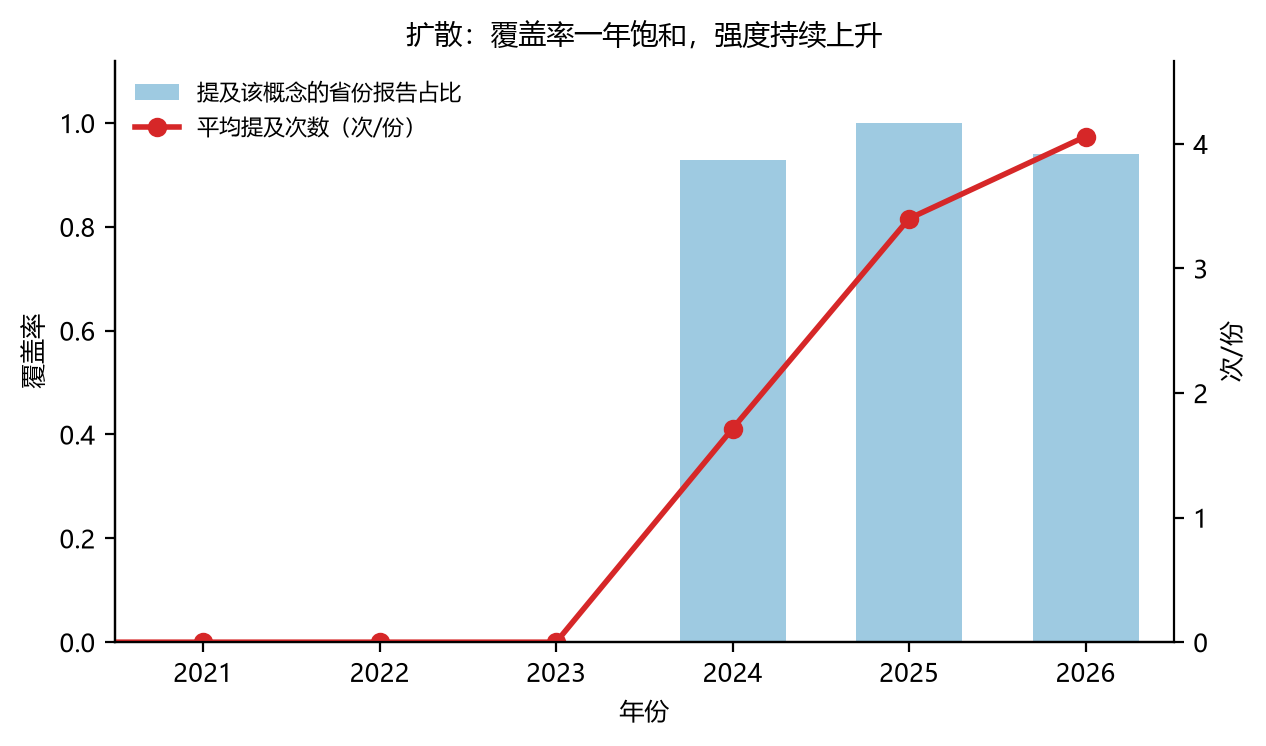
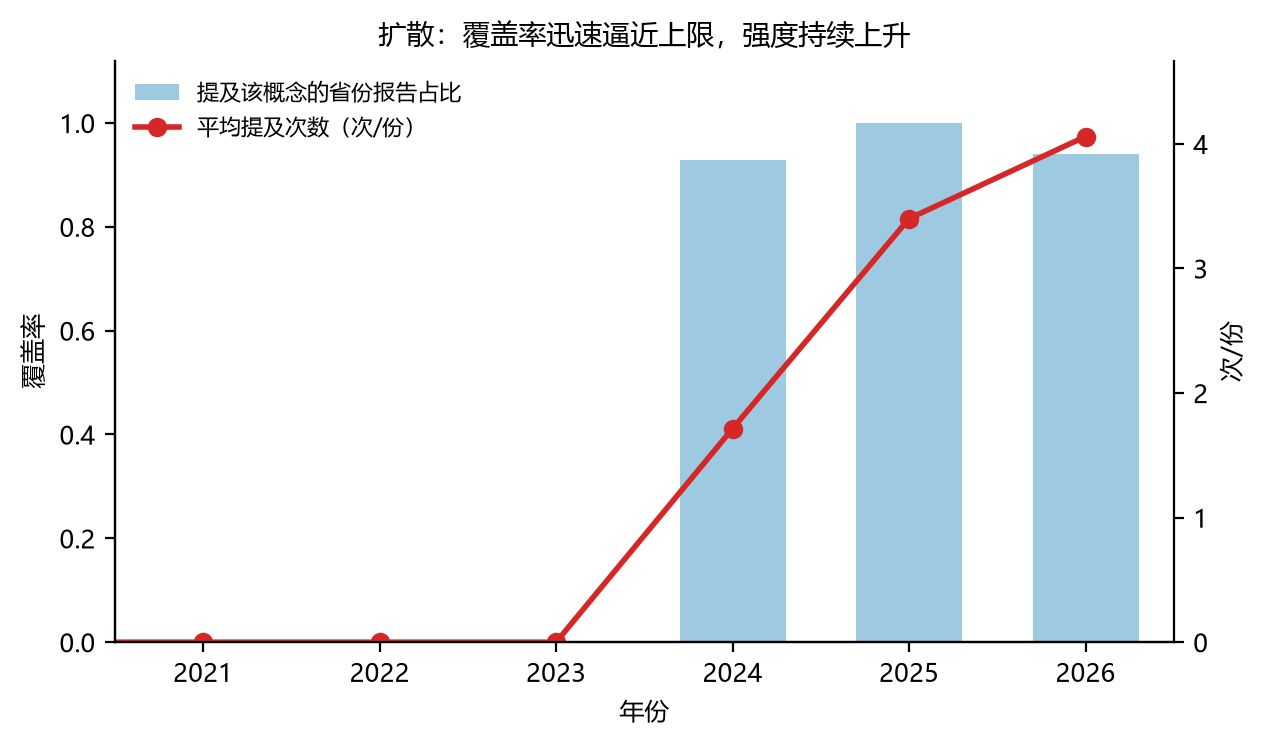
docs: soften fig3 title to match the 2026 dip

Changed region(s): [[0.2773, 0.0308, 0.7393, 0.0617]]

diff --git a/scripts/figures.py b/scripts/figures.py
@@ -142,7 +142,7 @@ def fig3() -> None:
     handles = ax.get_legend_handles_labels()[0] + ax2.get_legend_handles_labels()[0]
     ax.legend(handles, [h.get_label() for h in handles],
               frameon=False, fontsize=8, loc="upper left")
-    ax.set_title("扩散：覆盖率一年饱和，强度持续上升")
+    ax.set_title("扩散：覆盖率迅速逼近上限，强度持续上升")
     fig.tight_layout()
     fig.savefig(OUT_DIR / "fig3_diffusion.png", bbox_inches="tight")
     plt.close(fig)
